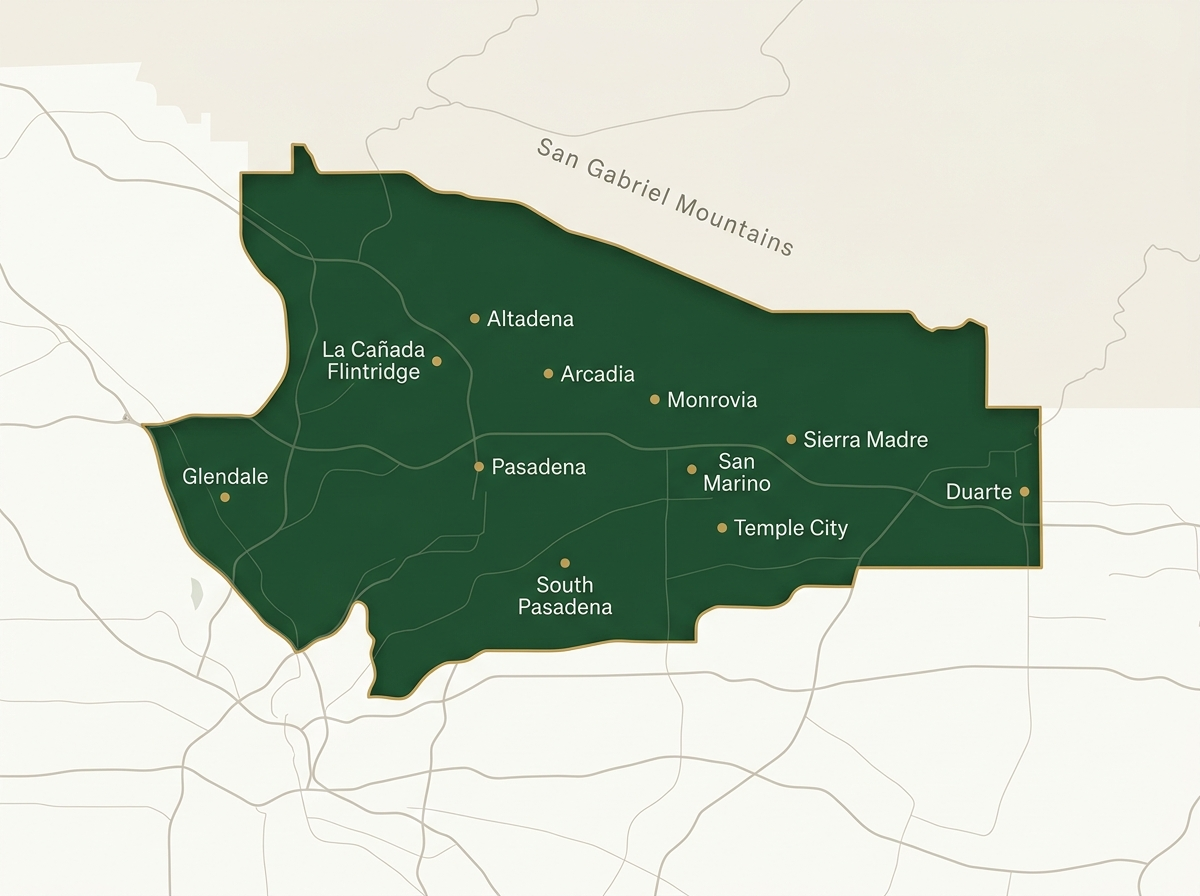
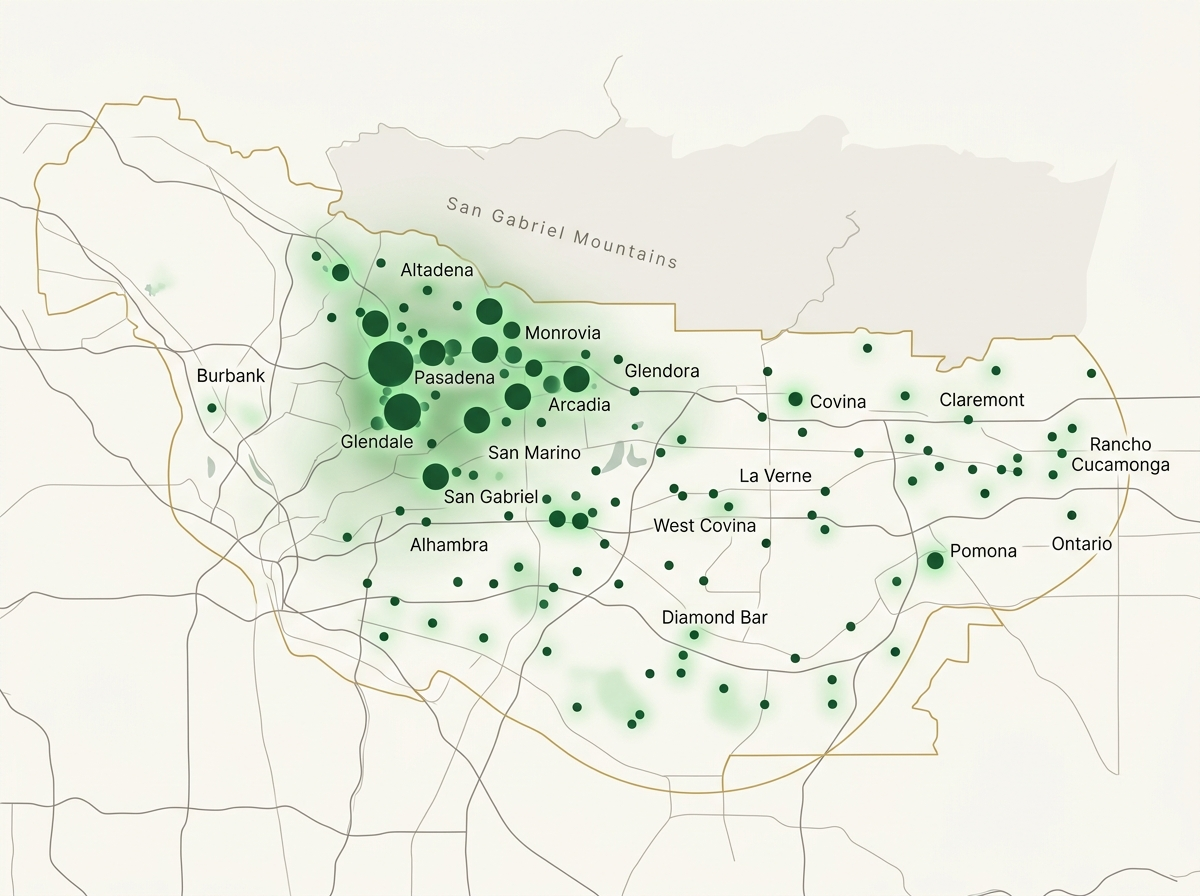
Service-area map: replace with real job-density map (66 cities w/ 2+ jobs in last 6mo, pulled from ServiceTitan) showing full coverage footprint (Bruce 2026-08-06)

diff --git a/index.html b/index.html
@@ -990,7 +990,7 @@
       </summary>
       <div style="display: grid; grid-template-columns: 1fr 1fr; gap: 20px; margin-top: 18px; align-items: start;">
         <div data-samap="1">
-          <img src="./assets/service-area-map.jpg" alt="Green Ladder Roofing service area map covering the greater San Gabriel Valley: Pasadena, Altadena, Arcadia, Glendale, La Ca&ntilde;ada Flintridge, San Marino, Monrovia, Sierra Madre, South Pasadena, Temple City and Duarte" loading="lazy" decoding="async" width="1200" height="896" style="width: 100%; height: auto; border: 1px solid #E0E0E0; border-radius: 6px; display: block;">
+          <img src="./assets/service-area-map.jpg" alt="Map of Green Ladder Roofing completed jobs across the greater San Gabriel Valley and Los Angeles area over the past 6 months, with dense coverage around Pasadena, Arcadia, Monrovia, Altadena, San Gabriel, Alhambra and Glendale reaching out to Covina, Glendora, Pomona, Rancho Cucamonga and beyond" loading="lazy" decoding="async" width="1200" height="896" style="width: 100%; height: auto; border: 1px solid #E0E0E0; border-radius: 6px; display: block;">
         </div>
         <div data-salist="1">
           <div style="font-family: system-ui, -apple-system, BlinkMacSystemFont, 'Segoe UI', Roboto, 'Helvetica Neue', Arial, sans-serif; font-size: 12px; letter-spacing: .05em; font-weight: 600; text-transform: uppercase; color: #55605B;">Examples of cities we cover</div>
